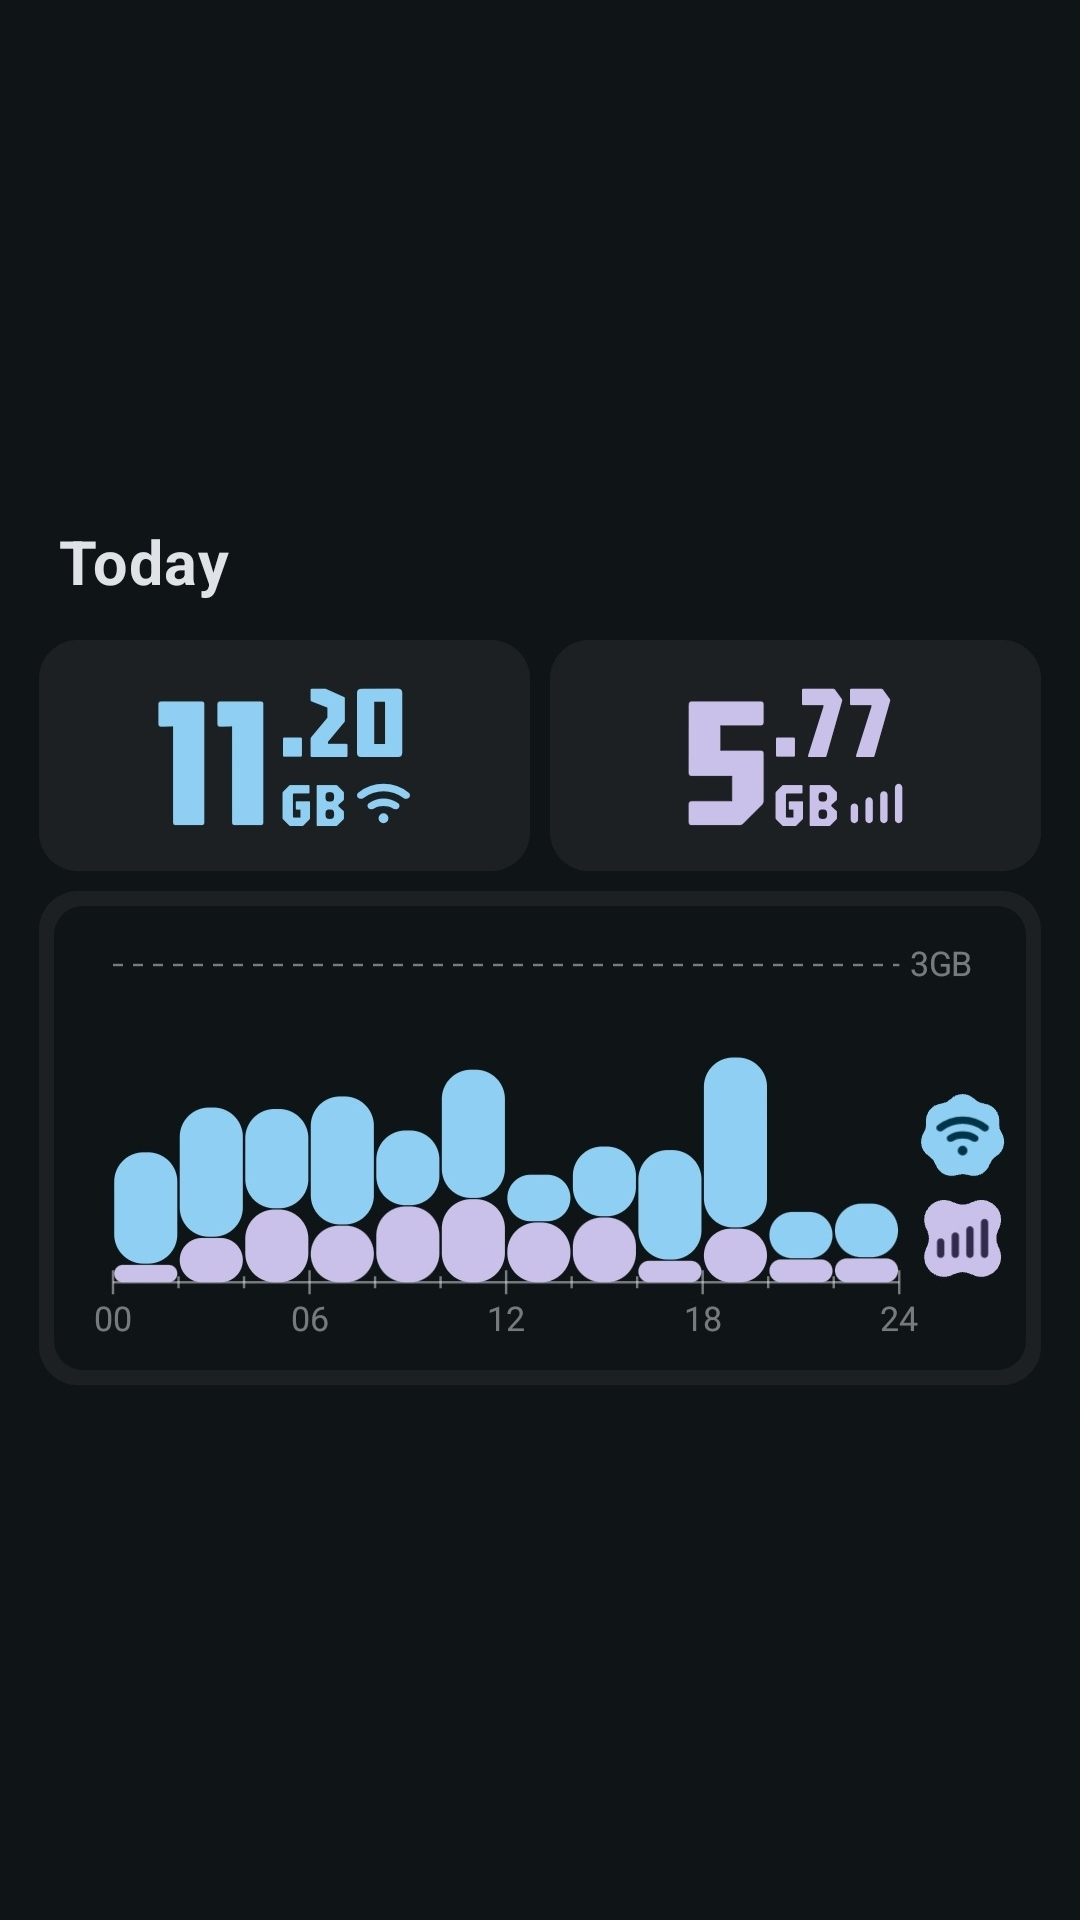
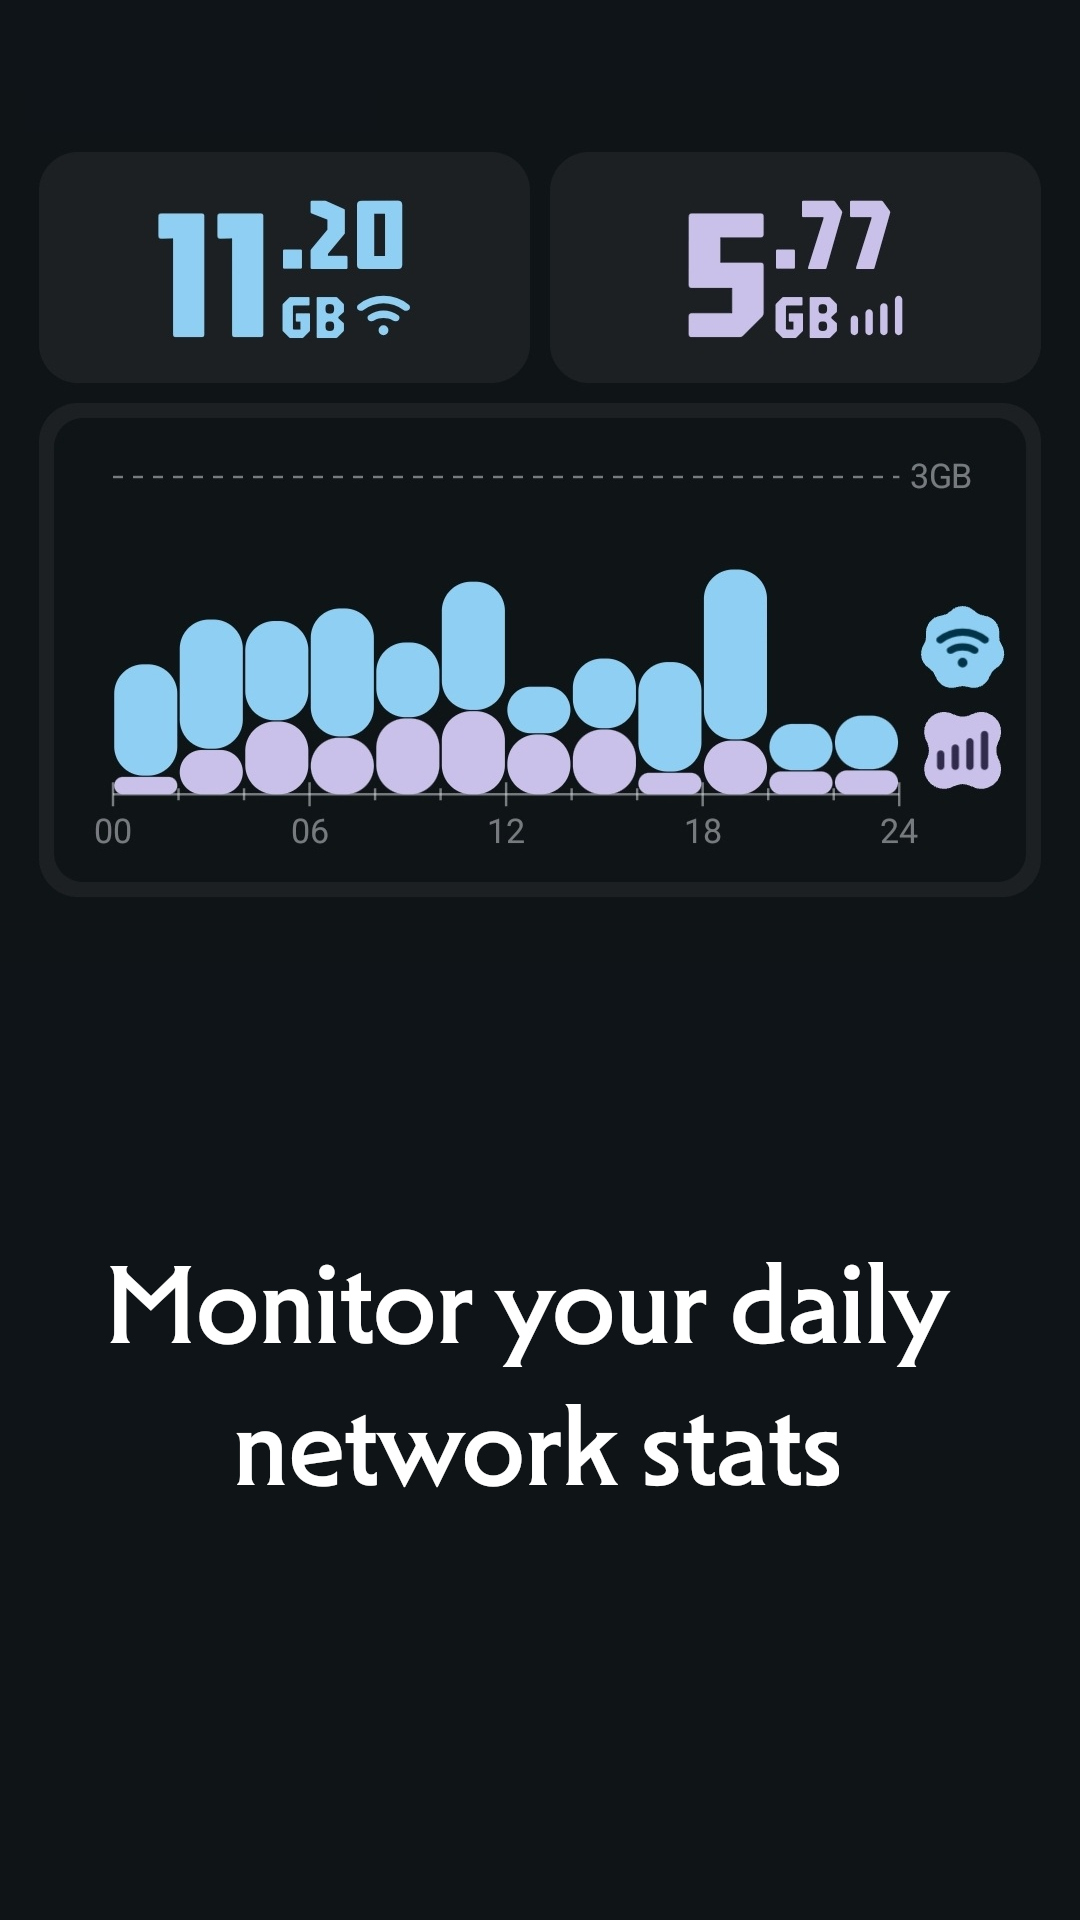
screenshots + better summary anim

diff --git a/app/src/main/java/com/leekleak/trafficlight/ui/HomeScreen.kt b/app/src/main/java/com/leekleak/trafficlight/ui/HomeScreen.kt
@@ -14,6 +14,7 @@ import androidx.compose.animation.expandVertically
 import androidx.compose.animation.shrinkVertically
 import androidx.compose.foundation.background
 import androidx.compose.foundation.clickable
+import androidx.compose.foundation.gestures.detectTapGestures
 import androidx.compose.foundation.layout.Arrangement
 import androidx.compose.foundation.layout.Box
 import androidx.compose.foundation.layout.Column
@@ -45,7 +46,6 @@ import androidx.compose.runtime.getValue
 import androidx.compose.runtime.mutableIntStateOf
 import androidx.compose.runtime.mutableStateOf
 import androidx.compose.runtime.remember
-import androidx.compose.runtime.rememberCoroutineScope
 import androidx.compose.runtime.setValue
 import androidx.compose.ui.Alignment
 import androidx.compose.ui.Modifier
@@ -53,6 +53,7 @@ import androidx.compose.ui.draw.clip
 import androidx.compose.ui.graphics.Color
 import androidx.compose.ui.graphics.painter.Painter
 import androidx.compose.ui.hapticfeedback.HapticFeedbackType
+import androidx.compose.ui.input.pointer.pointerInput
 import androidx.compose.ui.platform.LocalContext
 import androidx.compose.ui.platform.LocalHapticFeedback
 import androidx.compose.ui.res.painterResource
@@ -79,7 +80,6 @@ import com.leekleak.trafficlight.util.DataSize
 import com.leekleak.trafficlight.util.SizeFormatter
 import com.leekleak.trafficlight.util.padHour
 import kotlinx.coroutines.delay
-import kotlinx.coroutines.launch
 import java.time.Instant
 import java.time.LocalDate
 import java.time.LocalDateTime
@@ -170,7 +170,6 @@ fun RowScope.SummaryItem(
     tint: Color,
     data: () -> Long
 ) {
-    val scope = rememberCoroutineScope()
     val animation = remember { Animatable(0f) }
     val haptic = LocalHapticFeedback.current
     Row (
@@ -178,33 +177,27 @@ fun RowScope.SummaryItem(
             .weight(1f + animation.value/256f)
             .clip(MaterialTheme.shapes.large)
             .background(MaterialTheme.colorScheme.surfaceContainer)
-            .clickable {
-                scope.launch {
-                    haptic.performHapticFeedback(HapticFeedbackType.LongPress)
-                    animation.animateTo(
-                        64f,
-                        spring(Spring.DampingRatioMediumBouncy, Spring.StiffnessMedium)
-                    )
-                    animation.animateTo(0f)
-                }
+            .pointerInput(Unit) {
+                detectTapGestures (
+                    onPress = {
+                        haptic.performHapticFeedback(HapticFeedbackType.LongPress)
+                        animation.animateTo(
+                            64f,
+                            spring(Spring.DampingRatioMediumBouncy, Spring.StiffnessMedium)
+                        )
+                        tryAwaitRelease()
+                        animation.animateTo(0f)
+                    },
+                )
             },
         horizontalArrangement = Arrangement.Center,
     ) {
         val text = DataSize(value = data().toFloat(), precision = 2).toStringParts()
 
-        // When there's a number like 400, it takes up much more space than eg. 111 and it looks cramped
-        val bigLetterCount = text.count {"04689".contains(it)}
-        val spacing = when (bigLetterCount) {
-            3 -> ((-2).sp)
-            2 -> ((-1).sp)
-            else -> 0.sp
-        }
-
         Text(
             fontSize = 76.sp,
             text = text[0],
             fontFamily = chonkyFont(animation.value),
-            letterSpacing = spacing,
             color = tint
         )
         Column (
@@ -542,7 +535,7 @@ fun chonkyFont(opticalSize: Float = 0f): FontFamily =
         Font(
             R.font.jaro,
             variationSettings = FontVariation.Settings(
-                FontVariation.Setting("opsz", 16f + opticalSize)
+                FontVariation.Setting("opsz", 80f - opticalSize)
             )
         ),
     )

diff --git a/app/src/main/java/com/leekleak/trafficlight/services/UsageService.kt b/app/src/main/java/com/leekleak/trafficlight/services/UsageService.kt
@@ -126,7 +126,7 @@ class UsageService : Service(), KoinComponent {
                     notification!!,
                     ServiceInfo.FOREGROUND_SERVICE_TYPE_MANIFEST
                 )
-            } catch (e: Exception) {
+            } catch (_: Exception) {
                 Log.e("Traffic Light", "Failed to start foreground service")
             }
         }
@@ -220,7 +220,7 @@ class UsageService : Service(), KoinComponent {
         val canvas = NativeCanvas(bitmap)
 
         val text = smartFormat(snapshot.totalSpeed, true)
-        val speed = text.substring(0, text.indexOfFirst { it.isLetter() })
+        val speed = text.take(text.indexOfFirst { it.isLetter() })
         val unit = text.substring(text.indexOfFirst { it.isLetter() })
 
         val paint = Paint().apply {
